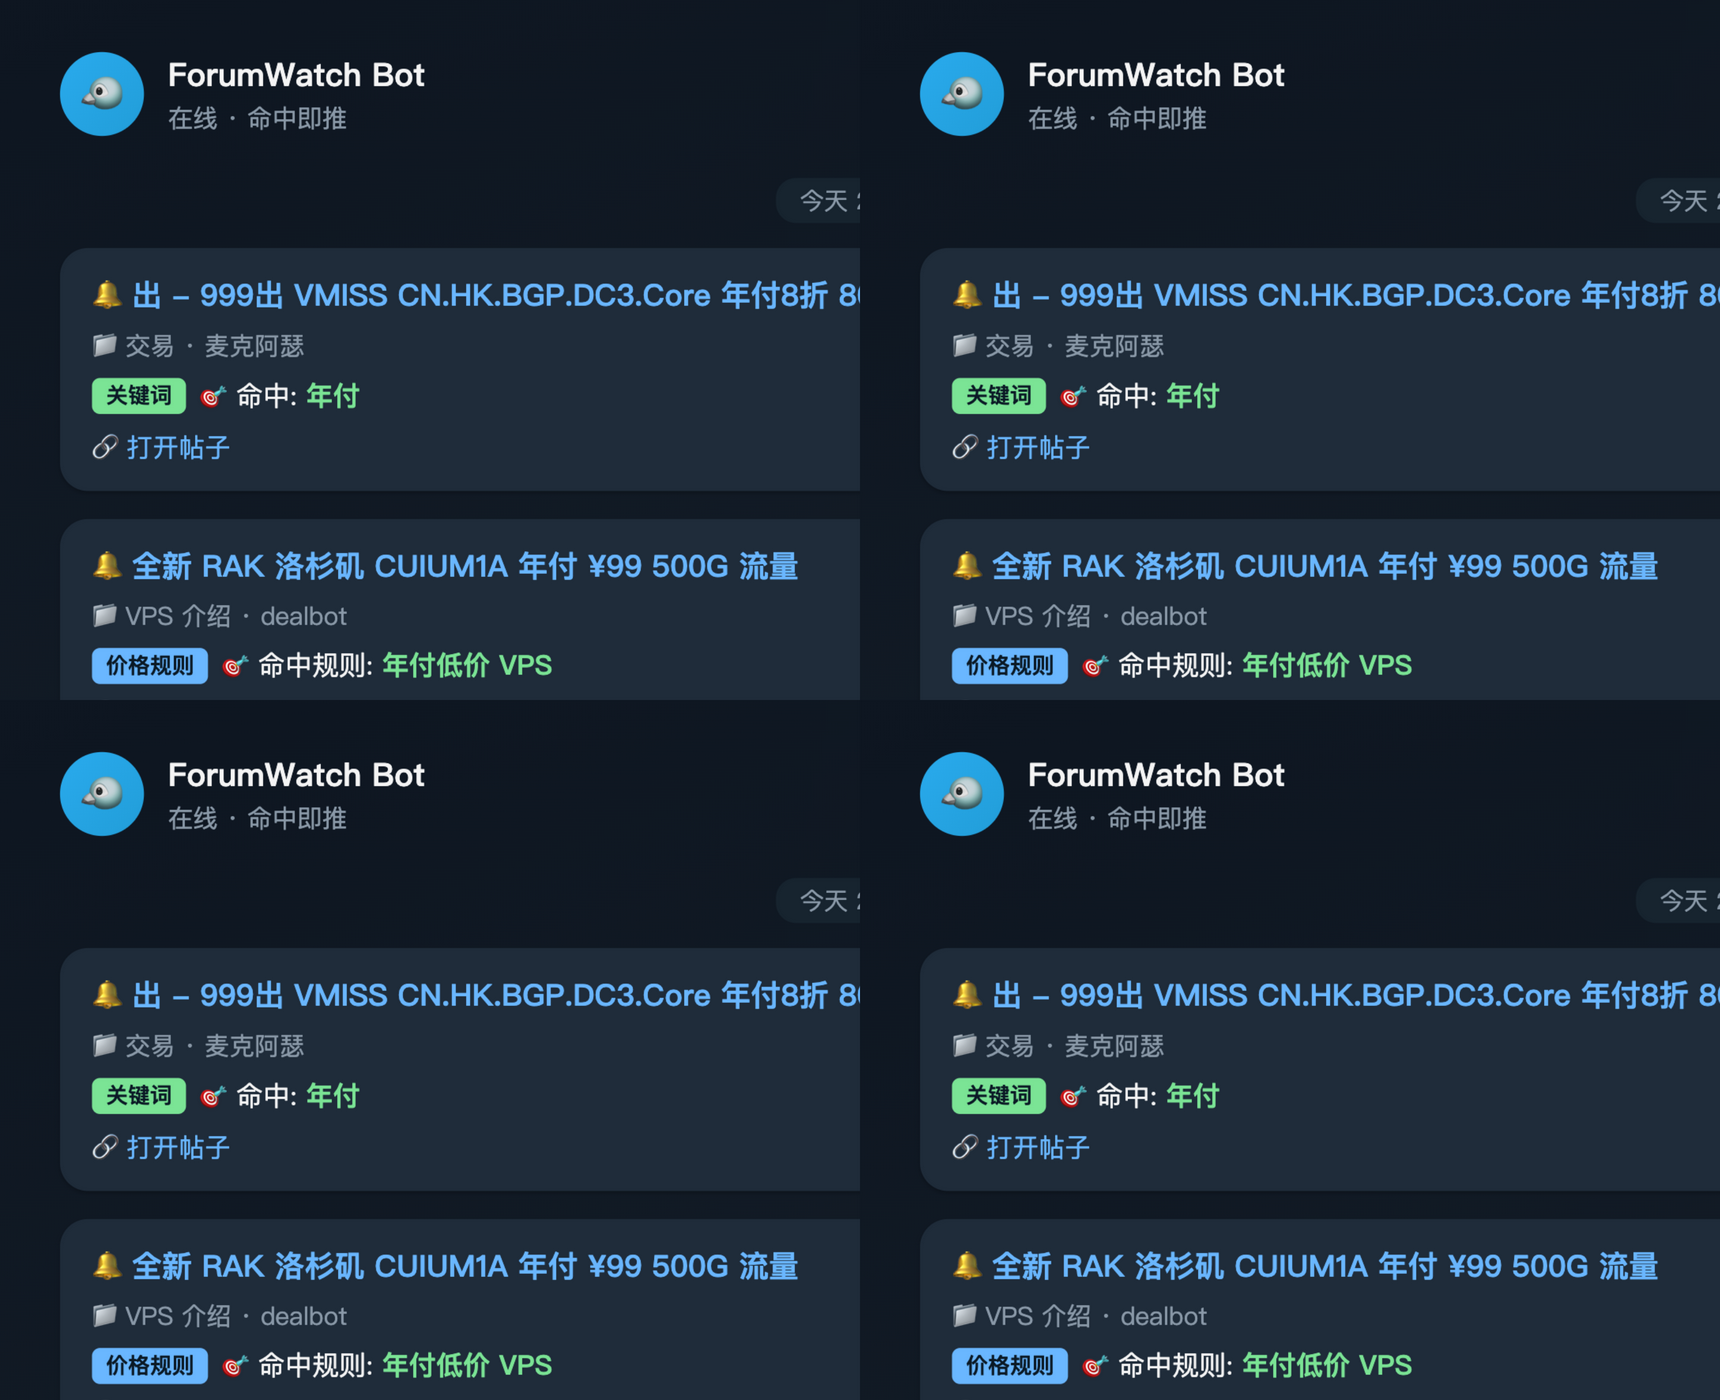
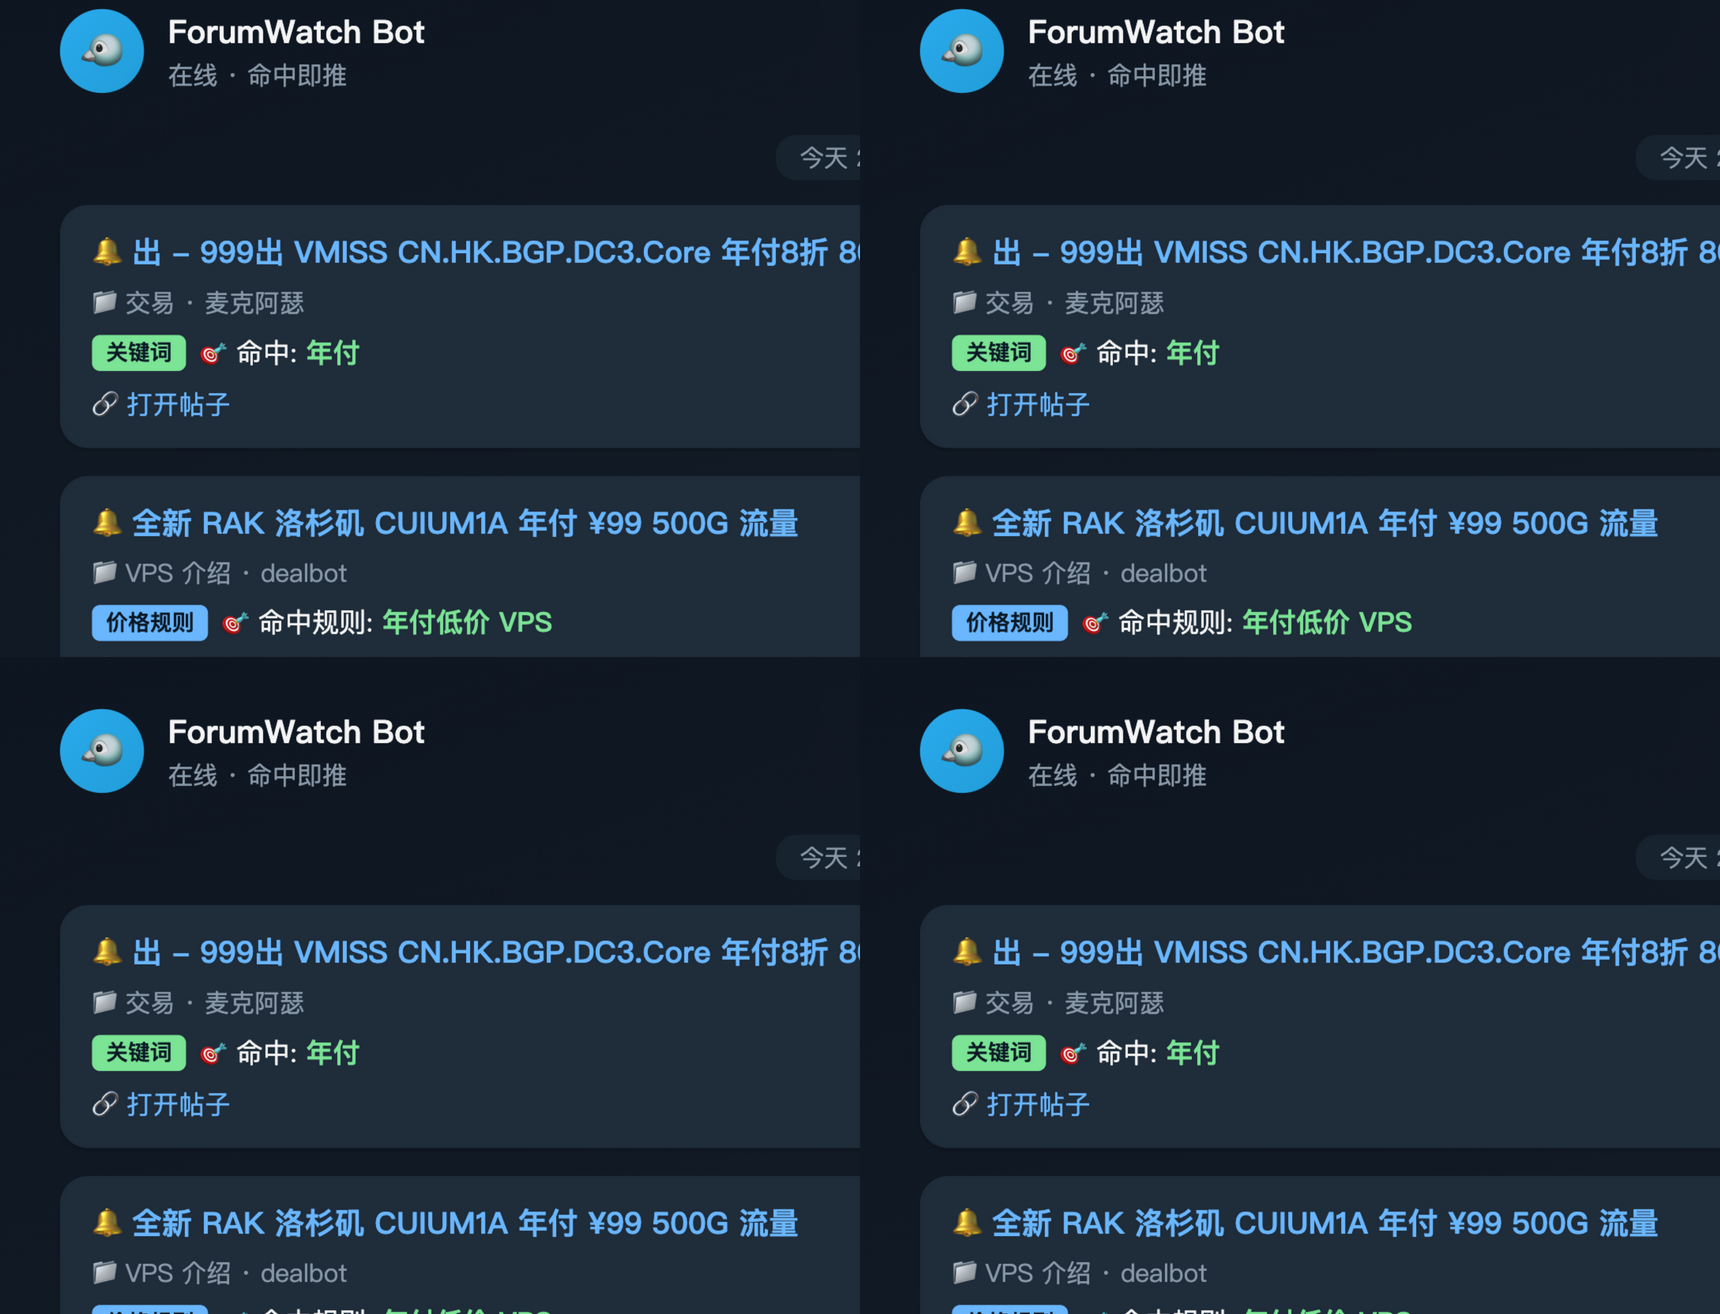
docs(readme): crop push-example to 1720x1314 — exact aspect match with UI shots, both images 100% width

diff --git a/README.md b/README.md
@@ -17,7 +17,7 @@
 <table>
 <tr>
 <td align="center" width="50%"><img src="docs/assets/dashboard.png" width="100%" alt="监控台界面" /><br/><sub>监控台：指标卡 · 来源健康度 · 实时命中流（图为浅色「晨报」主题，默认深色「瞭望塔」，可切换 / 跟随系统）</sub></td>
-<td align="center" width="50%"><img src="docs/assets/push-example.png" width="88%" alt="推送消息示例" /><br/><sub>命中时的推送长这样（Telegram 通道示意）</sub></td>
+<td align="center" width="50%"><img src="docs/assets/push-example.png" width="100%" alt="推送消息示例" /><br/><sub>命中时的推送长这样（Telegram 通道示意）</sub></td>
 </tr>
 </table>
 
